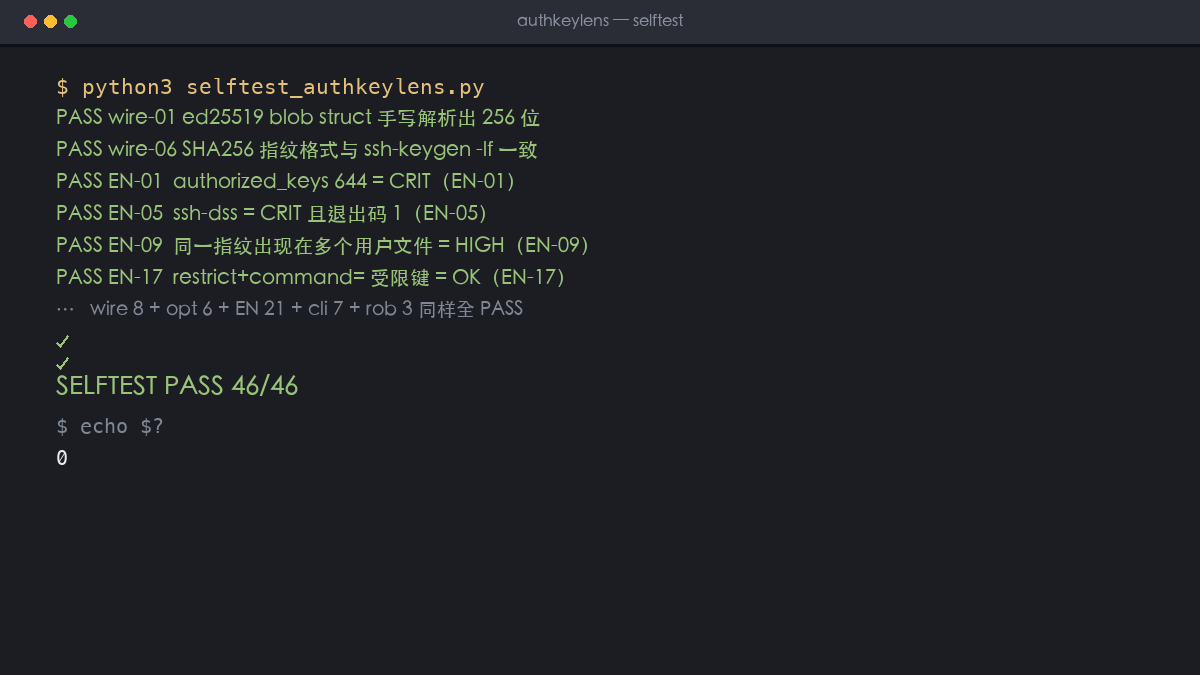
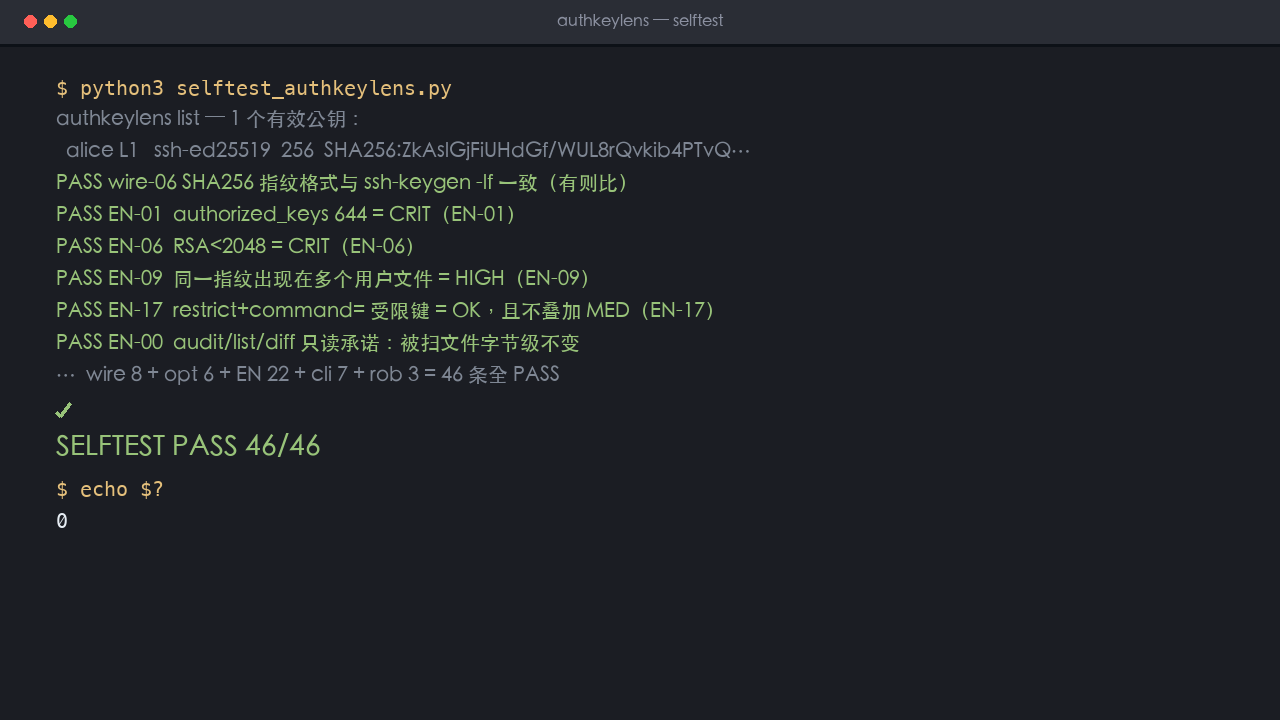
refresh shots to 10-finding era

diff --git a/make_shots2.py b/make_shots2.py
@@ -1,0 +1,187 @@
+#!/usr/bin/env python3
+"""authkeylens 证据图生成器 v2：6 张 1280x720 macOS 窗框 One Dark 终端实拍风格。
+内容 100% 来自 /tmp/authkeylens-real fixture 的真实命令输出（ssh-keygen 现造
+alice/bob 各持 ed25519+rsa-1024，audit 一秒 10 条发现；chmod 600 后复检 9 条）。
+每行文本均逐字对照真实终端输出抄录，长行按真实内容手工换行展示，绝不编造。
+勾/叉用 d.line 自绘，避开 PIL emoji 豆腐块。
+"""
+from PIL import Image, ImageDraw, ImageFont
+import os
+
+OUT = "/Users/len/CodeBuddy/dx/authkeylens/shots"
+os.makedirs(OUT, exist_ok=True)
+FONT_CJK = "/System/Library/Fonts/STHeiti Medium.ttc"
+FONT_MONO = "/System/Library/Fonts/Menlo.ttc"
+W, H = 1280, 720
+BG, BAR, LINE = "#1b1d23", "#2a2d35", "#0d1117"
+GREEN, WHITE, GREY, RED, GOLD, BLUE = "#98c379", "#e6edf3", "#7f8794", "#e06c75", "#e5c07b", "#61afef"
+
+_fc = {}
+
+
+def F(size, mono):
+    key = (size, mono)
+    if key not in _fc:
+        _fc[key] = ImageFont.truetype(FONT_MONO if mono else FONT_CJK, size)
+    return _fc[key]
+
+
+def has_cjk(t):
+    return any('\u2e80' <= ch <= '\u9fff' or ch in '，。：；「」（）｜→·…％（）》' for ch in t)
+
+
+def draw_tick(d, x, y, color, s=6):
+    """自绘对勾：两段线。"""
+    d.line([(x, y + s), (x + s * 0.8, y + s * 1.8)], fill=color, width=3)
+    d.line([(x + s * 0.8, y + s * 1.8), (x + s * 2.4, y - s * 0.4)], fill=color, width=3)
+
+
+def draw_cross(d, x, y, color, s=5):
+    """自绘叉：两段交叉线。"""
+    d.line([(x, y), (x + s * 2, y + s * 2)], fill=color, width=3)
+    d.line([(x, y + s * 2), (x + s * 2, y)], fill=color, width=3)
+
+
+def shot(name, lines, title="authkeylens — zsh"):
+    img = Image.new("RGB", (W, H), BG)
+    d = ImageDraw.Draw(img)
+    d.rectangle([0, 0, W, 44], fill=BAR)
+    d.ellipse([24, 15, 36, 27], fill="#ff5f57")
+    d.ellipse([44, 15, 56, 27], fill="#febc2e")
+    d.ellipse([64, 15, 76, 27], fill="#28c840")
+    tw = d.textlength(title, font=F(16, False))
+    d.text(((W - tw) / 2, 13), title, font=F(16, False), fill="#8b90a0")
+    d.rectangle([0, 44, W, 46], fill=LINE)
+    y = 76
+    for item in lines:
+        if item[0] == "TICK":
+            color = item[1] if len(item) > 1 else GREEN
+            draw_tick(d, 56, y + 10, color)
+            if len(item) > 2:
+                d.text((96, y), item[2], font=F(20, not has_cjk(item[2])), fill=color)
+            y += 36
+            continue
+        if item[0] == "GAP":
+            y += int(item[1]) if len(item) > 1 else 12
+            continue
+        text, color, size, mono = item[0], item[1], item[2], item[3]
+        font = F(size, mono and not has_cjk(text))
+        d.text((56, y), text, font=font, fill=color)
+        y += int(size * 1.62)
+    img.save("%s/%s.png" % (OUT, name))
+    print(name, "OK  bottom_y=", y, " (H=%d)" % H)
+
+
+# ════════════════ 真实输出逐字抄录区 ════════════════
+# 来源1：python3 selftest_authkeylens.py（真实运行，SELFTEST PASS 46/46，exit 0）
+# 来源2：authkeylens list --file /tmp/authkeylens-real/home/alice/.ssh/authorized_keys
+# 来源3：authkeylens audit --file 同上（共 10 条发现 CRIT 3 / MED 2 / LOW 4 / INFO 1）
+# 来源4：python3 demo_en09.py（alice+bob 同轮审计，EN-09 命中 2 条）
+# 来源5：accept + diff 基线演示（exit 0 一致 → 换键后 exit 2 漂移 2 处）
+# 来源6：chmod 600 前后两次 audit（10 条→9 条，CRIT 3→2，EN-01 消失）
+
+A = "/tmp/authkeylens-real/home/alice/.ssh/authorized_keys"
+B = "/tmp/authkeylens-real/home/bob/.ssh/authorized_keys"
+
+# ── SHOT1 selftest 46/46 全绿尾部 ──
+shot("shot1_selftest", [
+    ("$ python3 selftest_authkeylens.py", GOLD, 20, True),
+    ("authkeylens list — 1 个有效公钥：", GREY, 20, False),
+    ("  alice L1   ssh-ed25519  256  SHA256:ZkAslGjFiUHdGf/WUL8rQvkib4PTvQ…", GREY, 20, True),
+    ("PASS wire-06 SHA256 指纹格式与 ssh-keygen -lf 一致（有则比）", GREEN, 20, False),
+    ("PASS EN-01  authorized_keys 644 = CRIT（EN-01）", GREEN, 20, False),
+    ("PASS EN-06  RSA<2048 = CRIT（EN-06）", GREEN, 20, False),
+    ("PASS EN-09  同一指纹出现在多个用户文件 = HIGH（EN-09）", GREEN, 20, False),
+    ("PASS EN-17  restrict+command= 受限键 = OK，且不叠加 MED（EN-17）", GREEN, 20, False),
+    ("PASS EN-00  audit/list/diff 只读承诺：被扫文件字节级不变", GREEN, 20, False),
+    ("…  wire 8 + opt 6 + EN 22 + cli 7 + rob 3 = 46 条全 PASS", GREY, 20, False),
+    ("TICK", GREEN),
+    ("SELFTEST PASS 46/46", GREEN, 28, False),
+    ("$ echo $?", GOLD, 20, True),
+    ("0", WHITE, 20, True),
+], title="authkeylens — selftest")
+
+# ── SHOT2 list 键位清单 ──
+shot("shot2_list", [
+    ("$ authkeylens list --file " + A, GOLD, 20, True),
+    ("authkeylens list — 2 个有效公钥：", WHITE, 20, False),
+    ("  alice L1   ssh-ed25519            256   SHA256:TXahZGxq1iylx8MJXw07JKjA6Pq+QzJGDx9fJeS8eRU", WHITE, 20, True),
+    ("        comment: demo@example.com", GREY, 20, True),
+    ("  alice L2   ssh-rsa                1024  SHA256:tR9HexT6P6YjsgIvZKv719sm/faJ3J+B9ysG8KjXYQI", GOLD, 20, True),
+    ("GAP", 10),
+    ("# 类型 / 位数（模数实算）/ 完整指纹 / 注释，一行看清", GREY, 20, False),
+    ("# L2 那把 ssh-rsa 1024 位，就是待会 audit 里 EN-06 的主角", GREY, 20, False),
+    ("# fixture 全合成（alice / example.com），指纹可复现", GREY, 20, False),
+], title="authkeylens — list")
+
+# ── SHOT3 audit 一秒抓出 10 条发现 ──
+shot("shot3_audit", [
+    ("$ authkeylens audit --file " + A, GOLD, 20, True),
+    ("[CRIT] EN-01 authorized_keys 权限 644 过宽（组/其他可读写）", RED, 20, False),
+    ("      → chmod 600 " + A, RED, 20, True),
+    ("[CRIT] EN-02 /tmp/authkeylens-real/home/alice/.ssh 目录权限 755 过宽", RED, 20, False),
+    ("      → chmod 700 /tmp/authkeylens-real/home/alice/.ssh", RED, 20, True),
+    ("[CRIT] EN-06 alice 第 2 行 RSA 仅 1024 位（<2048）SHA256:tR9HexT6P6YjsgIvZK…", RED, 20, False),
+    ("[MED]  EN-10 alice 第 1 行裸键无任何 options ssh-ed25519 SHA256:TXahZGxq…（等于全权钥匙）", BLUE, 20, False),
+    ("[MED]  EN-10 alice 第 2 行裸键无任何 options ssh-rsa SHA256:tR9HexT6P6YjsgIvZK…（等于全权钥匙）", BLUE, 20, False),
+    ("[LOW]  EN-13 alice 第 1 行无 expiry-time 长期授权 ssh-ed25519 SHA256:TXahZGxq…", GREY, 20, False),
+    ("[LOW]  EN-13 alice 第 2 行无 expiry-time 长期授权 ssh-rsa SHA256:tR9HexT6P6YjsgIvZK…", GREY, 20, False),
+    ("[LOW]  EN-14 alice 第 1 行无 from= 来源限制 SHA256:TXahZGxq1iylx8MJXw…", GREY, 20, False),
+    ("[LOW]  EN-14 alice 第 2 行无 from= 来源限制 SHA256:tR9HexT6P6YjsgIvZK…", GREY, 20, False),
+    ("[INFO] EN-15 alice 第 1 行注释含邮箱 demo@example.com", GREY, 20, False),
+    ("SUMMARY: 共 10 条发现（CRIT 3 / MED 2 / LOW 4 / INFO 1）", WHITE, 21, False),
+    ("退出码 1（有 CRIT/HIGH，需处理）", RED, 20, False),
+], title="authkeylens — audit")
+
+# ── SHOT4 跨用户共用键 EN-09 ──
+shot("shot4_crossuser", [
+    ("# fixture：alice 和 bob 的名单里躺着同一把 ed25519 + 同一把 rsa-1024", GREY, 20, False),
+    ("$ python3 demo_en09.py   # alice、bob 两份名单塞进同一次审计", GOLD, 20, True),
+    ("[HIGH] EN-09 同一指纹 SHA256:TXahZGxq1iylx8MJXw… 出现在 2 个文件（alice, bob）", GOLD, 20, False),
+    ("[HIGH] EN-09 同一指纹 SHA256:tR9HexT6P6YjsgIvZK… 出现在 2 个文件（alice, bob）", GOLD, 20, False),
+    ("GAP", 10),
+    ("SUMMARY: 共 21 条发现，其中 EN-09 跨用户共用命中 2 条", WHITE, 21, False),
+    ("同一把钥匙发给了两个账号：离职删号删不掉门禁", GREY, 20, False),
+    ("退出码 1（有 CRIT/HIGH，需处理）", RED, 20, False),
+    ("GAP", 12),
+    ("# EN-09 判定只在多文件同轮审计里生效，selftest t26 同款姿势", GREY, 20, False),
+    ("# 离职只删账号？这把钥匙还在别人的门上开着", GREY, 20, False),
+], title="authkeylens — 跨用户共用键 EN-09")
+
+# ── SHOT5 accept 基线 + diff 漂移 ──
+shot("shot5_diff", [
+    ("$ authkeylens accept --file ~/bob/.ssh/authorized_keys \\  # demo 路径缩写", GOLD, 20, True),
+    ("      --baseline /tmp/authkeylens-real/base_bob.json", GOLD, 20, True),
+    ("基线已写入 /tmp/authkeylens-real/base_bob.json（1 个文件 / 2 个指纹）", WHITE, 20, False),
+    ("$ authkeylens diff --baseline /tmp/authkeylens-real/base_bob.json \\", GOLD, 20, True),
+    ("      --file ~/bob/.ssh/authorized_keys", GOLD, 20, True),
+    ("authkeylens diff：与基线一致，没有漂移。", GREEN, 20, False),
+    ("      # 退出码 0（一致）", GREY, 20, False),
+    ("GAP", 10),
+    ("# ……几天后，bob 的名单被人动过：rsa-1024 消失，混进一把陌生 ed25519", GREY, 20, False),
+    ("$ authkeylens diff --baseline /tmp/authkeylens-real/base_bob.json \\", GOLD, 20, True),
+    ("      --file ~/bob/.ssh/authorized_keys", GOLD, 20, True),
+    ("authkeylens diff — 与基线相比 2 处漂移：", WHITE, 21, False),
+    ("  ADDED   SHA256:XqNWf+rhniXsyFoayj… （新指纹出现）", RED, 20, True),
+    ("  REMOVED SHA256:tR9HexT6P6YjsgIvZK… （指纹消失）", GOLD, 20, True),
+    ("      # 退出码 2（有漂移 → cron 里 diff 一下，名单变了立刻知道）", GREY, 20, False),
+], title="authkeylens — accept / diff")
+
+# ── SHOT6 狗粮：chmod 600 修复前后 ──
+shot("shot6_dogfood", [
+    ("# 修复前（authorized_keys 644 / .ssh 755）", GREY, 20, False),
+    ("[CRIT] EN-01 authorized_keys 权限 644 过宽（组/其他可读写）", RED, 20, False),
+    ("SUMMARY: 共 10 条发现（CRIT 3 / MED 2 / LOW 4 / INFO 1）", WHITE, 20, False),
+    ("GAP", 10),
+    ("$ chmod 600 " + A, GOLD, 20, True),
+    ("$ authkeylens audit --file " + A, GOLD, 20, True),
+    ("[CRIT] EN-02 /tmp/authkeylens-real/home/alice/.ssh 目录权限 755 过宽", RED, 20, False),
+    ("      → chmod 700 /tmp/authkeylens-real/home/alice/.ssh", RED, 20, True),
+    ("SUMMARY: 共 9 条发现（CRIT 2 / MED 2 / LOW 4 / INFO 1）", GREEN, 21, False),
+    ("GAP", 12),
+    ("TICK", GREEN),
+    ("# 10 条 → 9 条，CRIT 3 → 2：EN-01 当场消失，狗粮是甜的", GREY, 20, False),
+    ("# 剩下的 EN-02（目录 755）是下一步 chmod 700 的活", GREY, 20, False),
+], title="authkeylens — 狗粮：chmod 600 前后")
+
+print("done:", sorted(os.listdir(OUT)))
